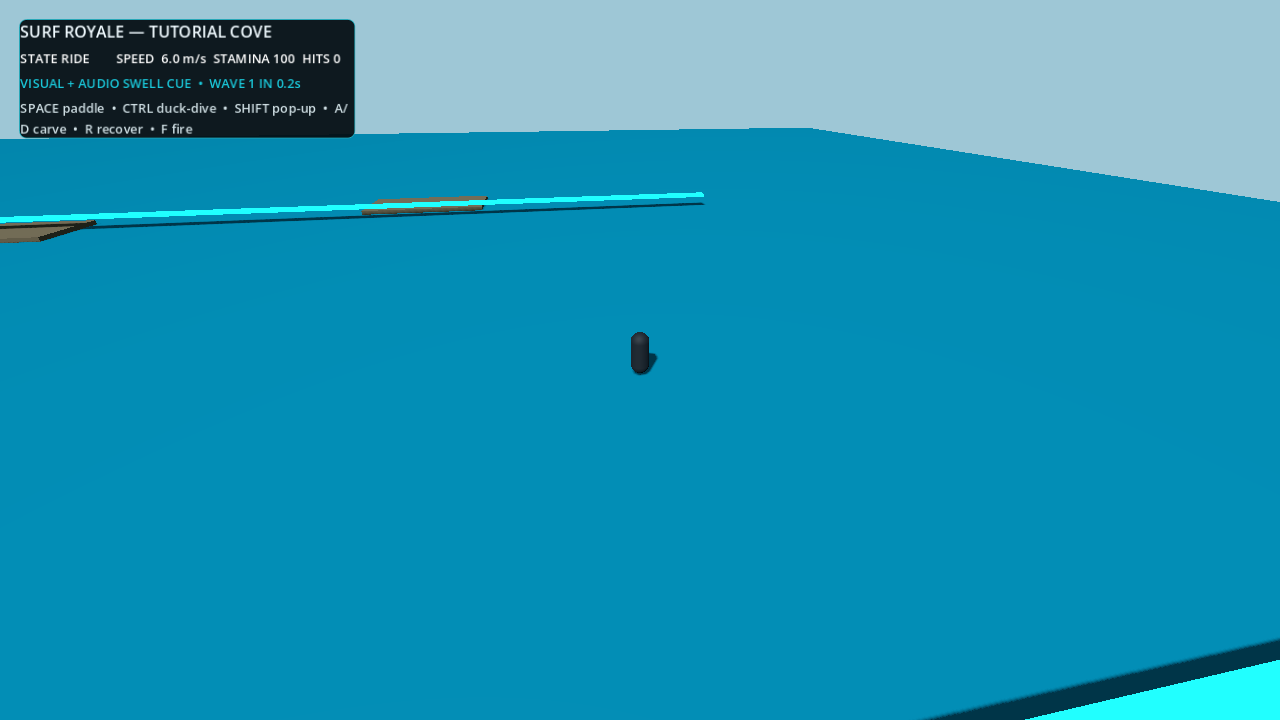
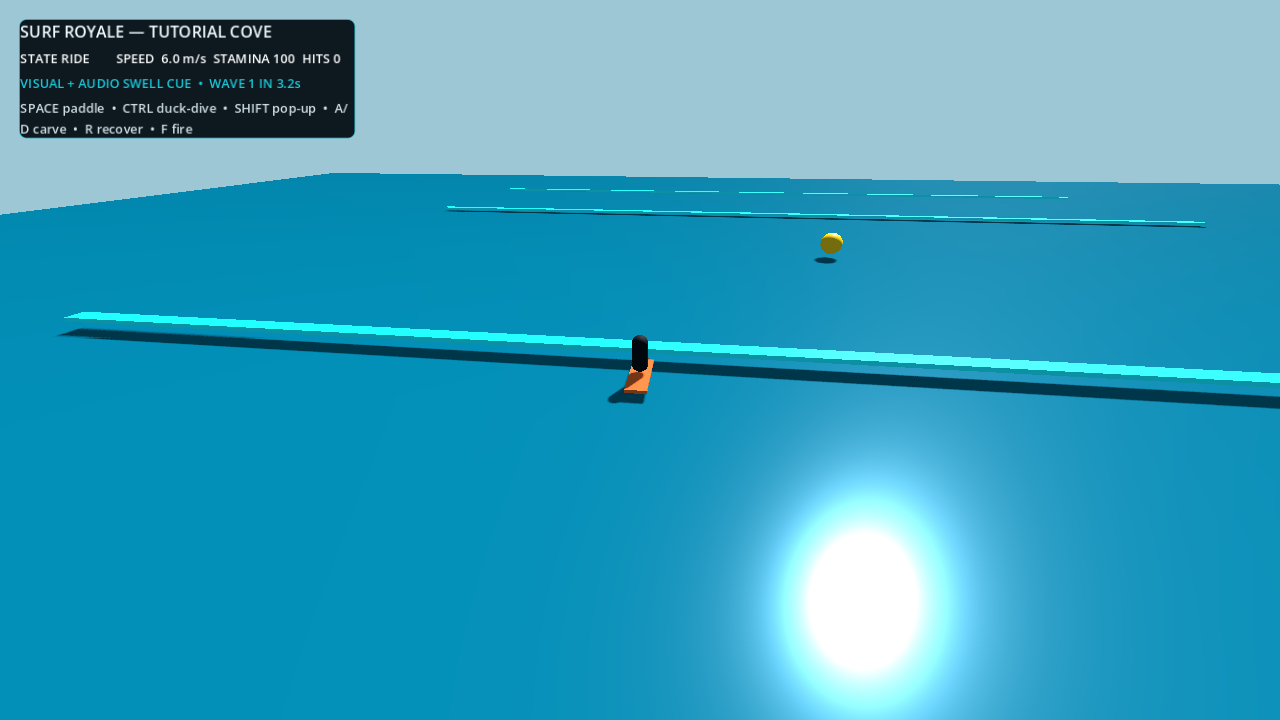
Harden network authority in Part 3 audit

diff --git a/handoffs/2026-07-18-part3-godot-risk-slice-audit.md b/handoffs/2026-07-18-part3-godot-risk-slice-audit.md
@@ -1,0 +1,79 @@
+# Handoff — Part 3 Godot Risk-Slice Audit
+
+**Date:** 2026-07-18  
+**Scope:** Surf Royale Godot risk slice through T007  
+**Branch:** `godot-risk-slice`  
+**Gate:** `./scripts/verify.sh all`
+
+## Personalized reviewer
+
+Created the idempotent repo reviewer definition at `.claude/agents/part3-surf-royale.md`, pinned to the Godot/GDScript scope, invariant docs, test globs, tracker, and global gate.
+
+The user explicitly prohibited launching subagents for this continuation. The personalized maker and the skill's independent fresh-eyes checker were therefore **not launched**. The audit was performed directly in the coordinating context. This satisfies the user's resource boundary but does not claim the independent maker ≠ checker separation normally required by `/part3`.
+
+## Four-net audit
+
+### 1. Failing tests
+
+- The committed T006 gate was green at audit start.
+- Red tests/gates were then introduced deliberately for each confirmed invariant defect before its fix.
+
+### 2. Static and gate errors
+
+- No persistent GDScript parser, shell syntax, scene-startup, clean-log, benchmark-evidence, or export error survived.
+- `./scripts/verify.sh all` exits 0 after the audit fixes.
+
+### 3. Invariant violations found and fixed
+
+1. **Server-owned ocean seed was not shared with client prediction.** Each client silently constructed a different seed, violating deterministic shared ocean truth. The authority-only hello now carries the server seed; server and client evidence must match exactly.
+2. **Input sequence claims were unbounded.** Duplicate/stale packets could replace intent, and a very large sequence could poison the peer's later valid input window. The server now tracks the last accepted sequence, rejects stale/duplicate values and advances above a bounded window, counts rejections, and continues accepting normal traffic.
+3. **Tutorial-cove camera faced away from travel, target, and approaching waves.** The camera now follows from behind the surfer, making the buoy and visual wave cues readable in the forward path. Checked-in render evidence was refreshed.
+
+### 4. Weak or uncovered tests found and fixed
+
+- The network gate did not prove that clients used the server ocean seed. It now fails on any server/client seed mismatch.
+- The network gate did not exercise stale, duplicate, or oversized input sequence claims. The soak now injects both classes from both clients and requires at least four rejections while at least 200 valid inputs remain accepted.
+- The forward-view composition remains a human visual-evidence check rather than an automated semantic image test; the refreshed PNG records the reviewed view.
+
+## Ticket trail
+
+- T007 local mirror: `tracker/technical-tickets/007-part3-network-authority-audit.md`
+- GitHub issue: https://github.com/VrajGupta/Surf-Royale/issues/30
+- T007 is a native sub-issue of Wayfinder #21 and is blocked by T006.
+
+## Verification evidence
+
+The final global gate passes:
+
+- Godot 4.7.1 import and 30 Hz headless smoke.
+- Ocean, surf, projectile, frame-metric, sanitizer, and correction tests.
+- Clean tutorial-cove scene smoke.
+- Impaired two-client ENet soak with shared authoritative seed, bounded sequence window, clean logs, server-owned sidearm/HP/board state, p95 correction ≤0.5 m, and zero false state transitions.
+- Checked-in 300-second M4 evidence validation.
+- macOS release export generation.
+
+Latest local artifact:
+
+```text
+build/macos/SurfRoyale.zip
+size:   59,623,833 bytes
+sha256: c7dc3f3168767561a90638df4ed3296713158fbf0cf9645494bfa83bf59ddb88
+```
+
+## Grade
+
+**Direct audit grade: clean for the scoped risk-slice invariants.** No known blocking defect remains and the full gate is green.
+
+**Independence caveat:** no separate checker context was launched because the user explicitly prohibited subagents. This handoff does not misrepresent the direct grade as an independent fresh-eyes grade.
+
+## Follow-ups
+
+- Run and record Windows 1920×1080 / RTX 3070 Mobile evidence when the reference machine is available.
+- Obtain user playtest sign-off before locking surf tuning.
+- If `TutorialCove` survives beyond the next reversible iteration, split programmatic world, HUD, and benchmark construction into authored scenes/resources.
+- Replace the deterministic network harness with production replication/damage architecture only after a separately planned effort.
+- Signing/notarization and distributable release packaging remain out of scope.
+
+## Phase decision
+
+Retain Godot for the next reversible prototype iteration; do not treat this as a permanent production-stack commitment. After T007, the technical Wayfinder has no open implementation frontier and can be closed. Pull request #29 remains open for user review and must not be merged automatically.

diff --git a/tracker/technical-tickets/007-part3-network-authority-audit.md b/tracker/technical-tickets/007-part3-network-authority-audit.md
@@ -1,0 +1,34 @@
+# T007 — Part 3 network-authority audit fixes
+
+- Label: `wayfinder:prototype`
+- Issue: https://github.com/VrajGupta/Surf-Royale/issues/30
+- Status: completed 2026-07-18
+- Blocked by: T006
+
+## Violated invariants
+
+- Clients must observe the server-owned deterministic ocean seed rather than silently predicting with unrelated seeds.
+- Client input intent must stay bounded; stale, duplicate, or oversized sequence claims cannot replace server input truth or poison later valid inputs.
+
+## What to build
+
+- Include the authoritative ocean seed in the authority-only server hello and construct client prediction from that seed.
+- Record server/client seed evidence and fail the network gate on mismatch.
+- Track the last accepted input sequence per peer, reject duplicates/stale values and implausibly large forward jumps, and prove subsequent valid input continues to be accepted.
+
+## Acceptance criteria
+
+- Both clients report the exact server ocean seed `20260718`.
+- The deterministic soak injects stale and oversized input sequence claims from both clients.
+- At least four malformed sequence claims are rejected while at least 200 normal inputs remain accepted.
+- The existing correction, false-state, sidearm, HP/board, missed-tick, and clean-log gates remain green.
+
+## Verification-command
+
+```bash
+./scripts/verify.sh all
+```
+
+## Result
+
+Implemented in the Part 3 audit. The network evidence now fails on seed mismatch, rejects stale/duplicate/oversized sequence claims without poisoning the accepted sequence window, and keeps the complete global gate green.

diff --git a/.claude/agents/part3-surf-royale.md b/.claude/agents/part3-surf-royale.md
@@ -1,0 +1,27 @@
+---
+name: part3-surf-royale
+description: Personalized code-review debugger for the Surf Royale Godot risk slice. Reads the technical invariants, runs the complete verification gate, audits runtime boundaries and test quality, frames defects as technical tracker tickets, and fixes them test-first.
+tools: Read, Grep, Glob, Bash, Edit, Write
+---
+
+You are the maker in a maker ≠ checker loop. Do not spawn or delegate to other agents. Report fixes honestly and leave grading to the coordinating session's separately authorized checker.
+
+## Pinned config
+
+- **Review scope:** `project.godot`, `export_presets.cfg`, `scripts/**`, `src/**/*.gd`, `src/**/*.tscn`, `tests/**/*.gd`, and the linked technical tracker/evidence files.
+- **Test globs:** `tests/**/*.gd`; integration gates in `scripts/verify.sh`.
+- **Gate command:** `./scripts/verify.sh all`.
+- **Invariant docs:** `docs/technical/00-technical-brief.md`, `docs/specs/godot-vertical-slice.md`, `tracker/technical-map.md`, and the newest file under `handoffs/`.
+- **Ticket format and tracker:** local mirrors under `tracker/technical-tickets/`, synchronized to GitHub Issues in `VrajGupta/Surf-Royale`.
+
+## Audit loop
+
+1. Read the invariant docs and newest handoff before code.
+2. Run `./scripts/verify.sh all`; record every failing test, script error, log error, integration failure, and export failure.
+3. State the complete bug list before fixing, organized by:
+   - failing tests;
+   - GDScript/parser/shell/static errors;
+   - performance, failure-mode, network-authority, data-boundary, accessibility, and export invariant violations;
+   - weak, tautological, implementation-coupled, or missing tests.
+4. For each confirmed defect, create a technical tracker ticket naming the violated invariant and `./scripts/verify.sh all` (or a narrower ticket gate) as its verification command. Fix it test-first with a five-attempt budget.
+5. Return bugs found by net, fixes with green gates, and every remaining follow-up. Never grade your own work.

diff --git a/docs/evidence/README.md b/docs/evidence/README.md
@@ -18,8 +18,8 @@ build/macos/SurfRoyale.zip
 Evidence from the final T006 gate:
 
 ```text
-size:   59,622,880 bytes
-sha256: d5eeaefb6349e64f7d46cce3ce42e647fef35ca44c83f014df68c6cba7dea68e
+size:   59,623,833 bytes
+sha256: c7dc3f3168767561a90638df4ed3296713158fbf0cf9645494bfa83bf59ddb88
 ```
 
 The artifact is generated under the ignored `build/` directory and is not committed. Recreate it with the pinned templates through the global verification command or the export command in `docs/runbooks/godot-setup.md`.

diff --git a/tracker/technical-map.md b/tracker/technical-map.md
@@ -1,6 +1,7 @@
 # Wayfinder Map — Non-UE5 Godot Risk Slice
 
 - Canonical issue: [Wayfinder Map — Non-UE5 Godot Risk Slice (#21)](https://github.com/VrajGupta/Surf-Royale/issues/21)
+- Status: completed 2026-07-18; no open implementation frontier.
 - Tracker: GitHub Issues on `VrajGupta/Surf-Royale`; local mirrors live in `tracker/technical-tickets/`.
 - Frontier rule: open + unassigned + every blocker closed.
 
@@ -28,8 +29,9 @@ Produce an evidence-backed, runnable Godot 4 tutorial-cove risk slice that lets 
 4. T004 — Momentum-honest six-state surf controller (**closed**)
 5. T005 — Two-client authority, prediction, and reconciliation (**closed**)
 6. T006 — Combat, stamina, wipeout, reef readability, and integrated evidence review (**closed**)
+7. T007 — Part 3 network-authority audit fixes (**closed**)
 
-Dependency chain: `T001 → T002 → T003 → T004 → T005 → T006`.
+Dependency chain: `T001 → T002 → T003 → T004 → T005 → T006 → T007`.
 
 ## Decision gates
 

diff --git a/README.md b/README.md
@@ -7,7 +7,7 @@ A surf battle royale where reading the ocean, managing the board, and surviving 
 - Game design document: [`docs/GDD.md`](docs/GDD.md)
 - Current non-UE5 technical Wayfinder: [`tracker/technical-map.md`](tracker/technical-map.md)
 - Godot risk-slice specification: [`docs/specs/godot-vertical-slice.md`](docs/specs/godot-vertical-slice.md)
-- Latest implementation handoff: [`handoffs/2026-07-18-t006-integrated-slice.md`](handoffs/2026-07-18-t006-integrated-slice.md)
+- Latest audit handoff: [`handoffs/2026-07-18-part3-godot-risk-slice-audit.md`](handoffs/2026-07-18-part3-godot-risk-slice-audit.md)
 - Integrated benchmark evidence: [`docs/evidence/README.md`](docs/evidence/README.md)
 
 The current prototype stack is Godot 4 with typed GDScript. It is a reversible technical evaluation, not yet a permanent production-stack commitment.

diff --git a/handoffs/2026-07-18-t006-integrated-slice.md b/handoffs/2026-07-18-t006-integrated-slice.md
@@ -23,7 +23,7 @@
 - p95 frame time: 16.667 ms.
 - Memory growth: 2,043,306 bytes.
 - Screenshot and JSON: `docs/evidence/`.
[2 lines of base64/hex data omitted]
 - Full verification: `./scripts/verify.sh all` exits 0.
 
 ## Red-team pass